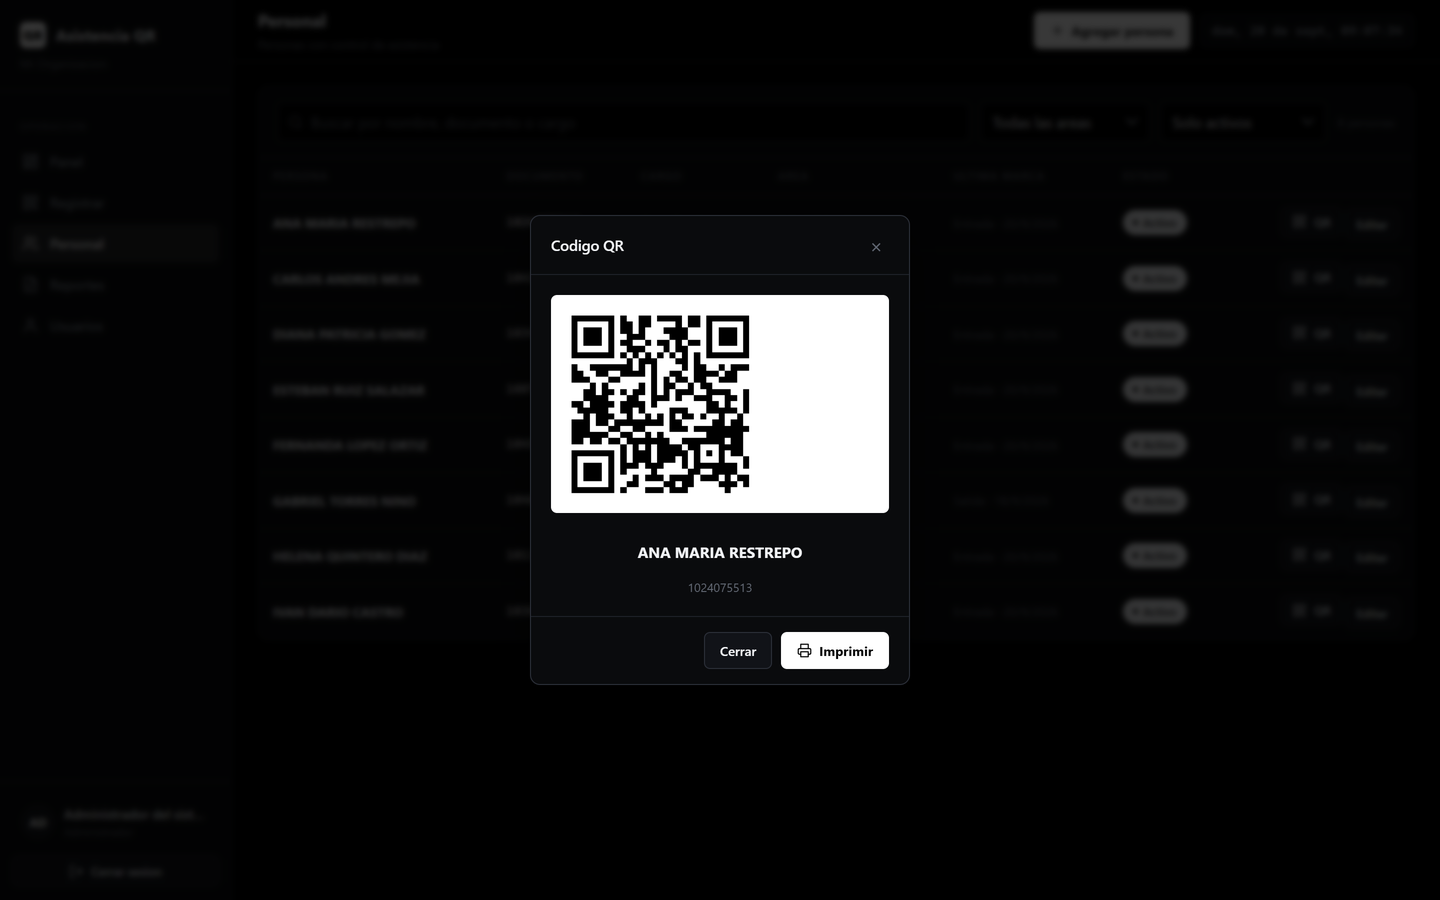
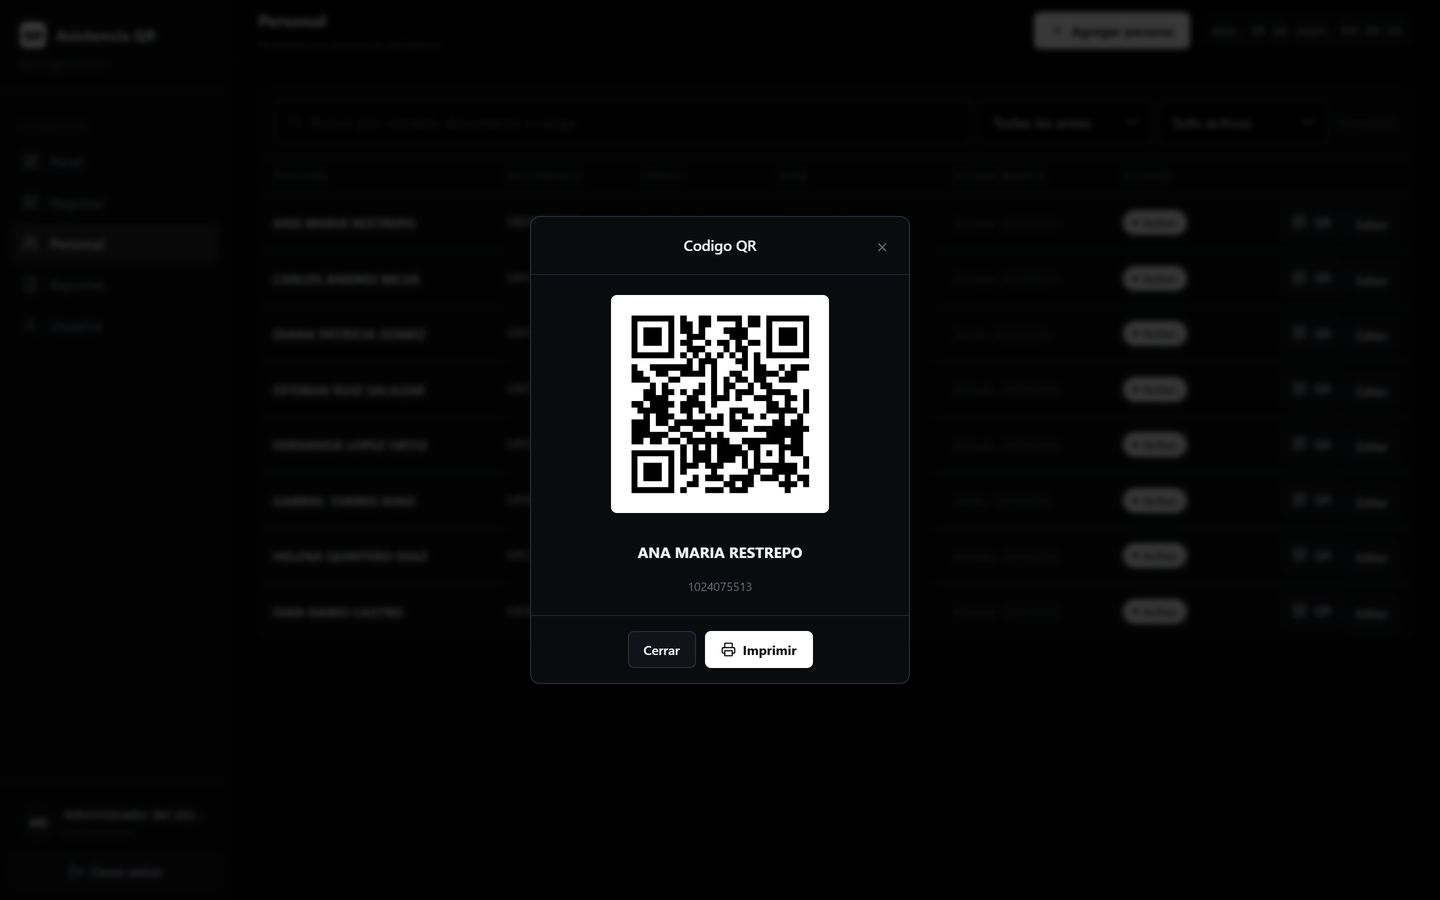
Centrar el modal del codigo QR
El cuerpo del modal es flex en columna, asi que sus hijos se estiran de
lado a lado y el display:inline-block de la caja del QR quedaba anulado:
la caja blanca ocupaba los 338 px del ancho en vez de los 218 que mide
el codigo, y el QR quedaba pegado a la izquierda.

Se anade la variante .modal-centrado, para modales que muestran algo en
vez de pedir datos: el contenido se cine a su tamano y se centran el
titulo, el cuerpo y los botones. Los modales de formulario siguen igual,
con los campos estirados y los botones a la derecha.

diff --git a/public/css/app.css b/public/css/app.css
@@ -468,6 +468,16 @@ table.tabla tbody tr:last-child td { border-bottom: none; }
 .modal-cuerpo { padding: 20px; display: flex; flex-direction: column; gap: 14px; }
 .modal-pie { padding: 15px 20px; border-top: 1px solid var(--borde); display: flex; justify-content: flex-end; gap: 9px; }
 
+/* Variante para modales que muestran algo en vez de pedir datos.
+   El cuerpo es flex en columna, asi que sus hijos se estiran de lado a lado:
+   sin align-items la caja del QR ocupaba todo el ancho y el codigo quedaba
+   pegado a la izquierda. Aqui todo se cine a su contenido y se centra. */
+.modal-centrado { max-width: 380px; }
+.modal-centrado .modal-cabeza { position: relative; justify-content: center; }
+.modal-centrado .modal-cabeza .cerrar { position: absolute; right: 14px; top: 50%; transform: translateY(-50%); }
+.modal-centrado .modal-cuerpo { align-items: center; }
+.modal-centrado .modal-pie { justify-content: center; }
+
 .cerrar {
   background: none;
   border: none;

diff --git a/public/js/personal.js b/public/js/personal.js
@@ -48,7 +48,7 @@ vista.innerHTML = `
   </div>
 
   <div class="modal-fondo" id="modalQr">
-    <div class="modal" style="max-width:380px">
+    <div class="modal modal-centrado">
       <div class="modal-cabeza"><h3>Codigo QR</h3><button class="cerrar" data-cerrar>&times;</button></div>
       <div class="modal-cuerpo centro" id="cuerpoQr"></div>
       <div class="modal-pie">
